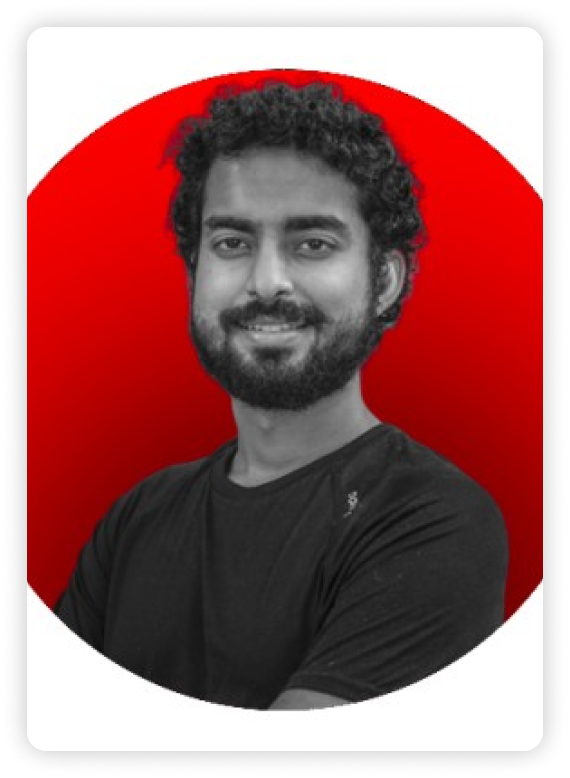
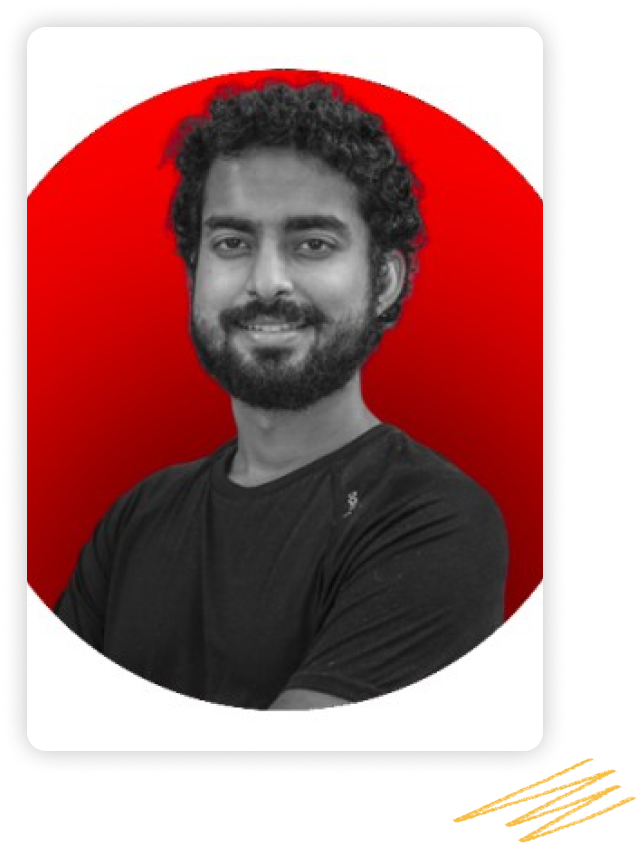
added vector elements in guest speakers

diff --git a/src/components/SpecialGuest.js b/src/components/SpecialGuest.js
@@ -1,15 +1,18 @@
 import React from "react";
 import assetmantle from "../assets/images/assetmantle.png";
 import deeptanshu from "../assets/images/deeptanshu.png";
-import scratch from "../assets/images/scratch.png";
+import arrow from "../assets/images/arrow.png";
 import "../stylesheet/SpecialGuest.css";
 const SpecialGuest = () => {
   return (
     <>
       <section id="special-guest">
         <div className="container">
+        
           <div className="row">
+          
             <div className="col-sm">
+            <img className="guest-arrow" src={arrow} alt="" />
               <h1>Our Special Guest</h1>
               <h3>Deepanshu Tripathi</h3>
               <p>
@@ -34,10 +37,11 @@ const SpecialGuest = () => {
             </div>
             <div className="col-sm">
               <center>
+                <div className="guest-image">
                 <img src={deeptanshu} alt="deepanshu" className="special-speaker-img" />
-                
+                </div>
               </center>
-              <img className="scratch-guest" src={scratch} alt="" />
+              
             </div>
           </div>
         </div>

diff --git a/src/stylesheet/SpecialGuest.css b/src/stylesheet/SpecialGuest.css
@@ -8,13 +8,32 @@
 {
     width: 100%;
     height: auto;
-    max-width: 300px;
-    max-height: 400px;
+    max-width: 350px;
+    max-height: 450px;
+    margin-top: 2rem;
 }
-.scratch-guest{
-    margin-left: 22rem;
-    transform: rotate(-10deg);
+
+.guest-arrow{
+    height: max-content;
+    width: 45%;
+    margin-left: 500px;
 }
+
+@media only screen and (min-width:1200px) and (max-width:1399px) {
+    .guest-arrow{
+        margin-left: 380px;
+    }
+    .special-speaker-img{
+        margin-top: 4rem;
+    }
+}
+
+@media only screen and (max-width:1199px) {
+    .guest-arrow{
+        display: none;
+    }
+}
+
 @media screen and (max-width: 962px)
 {
     .special-speaker-img
